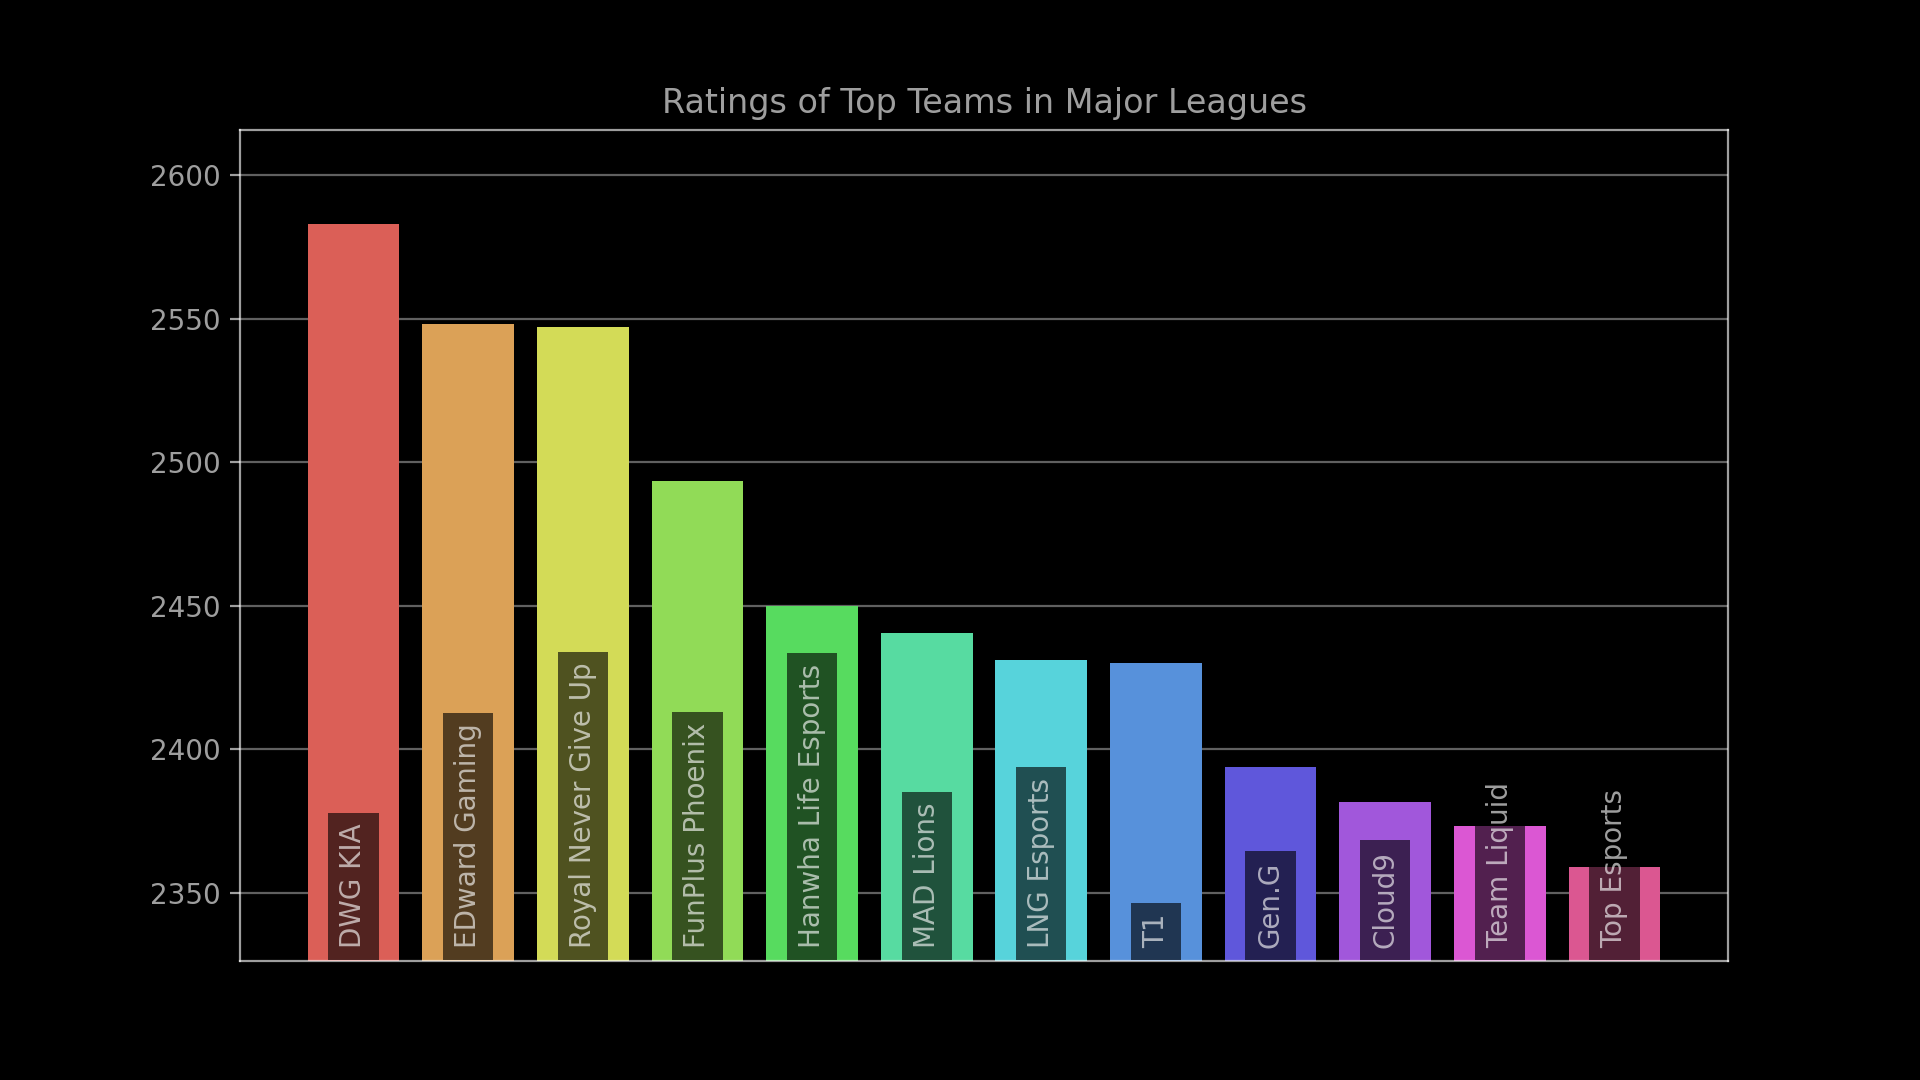
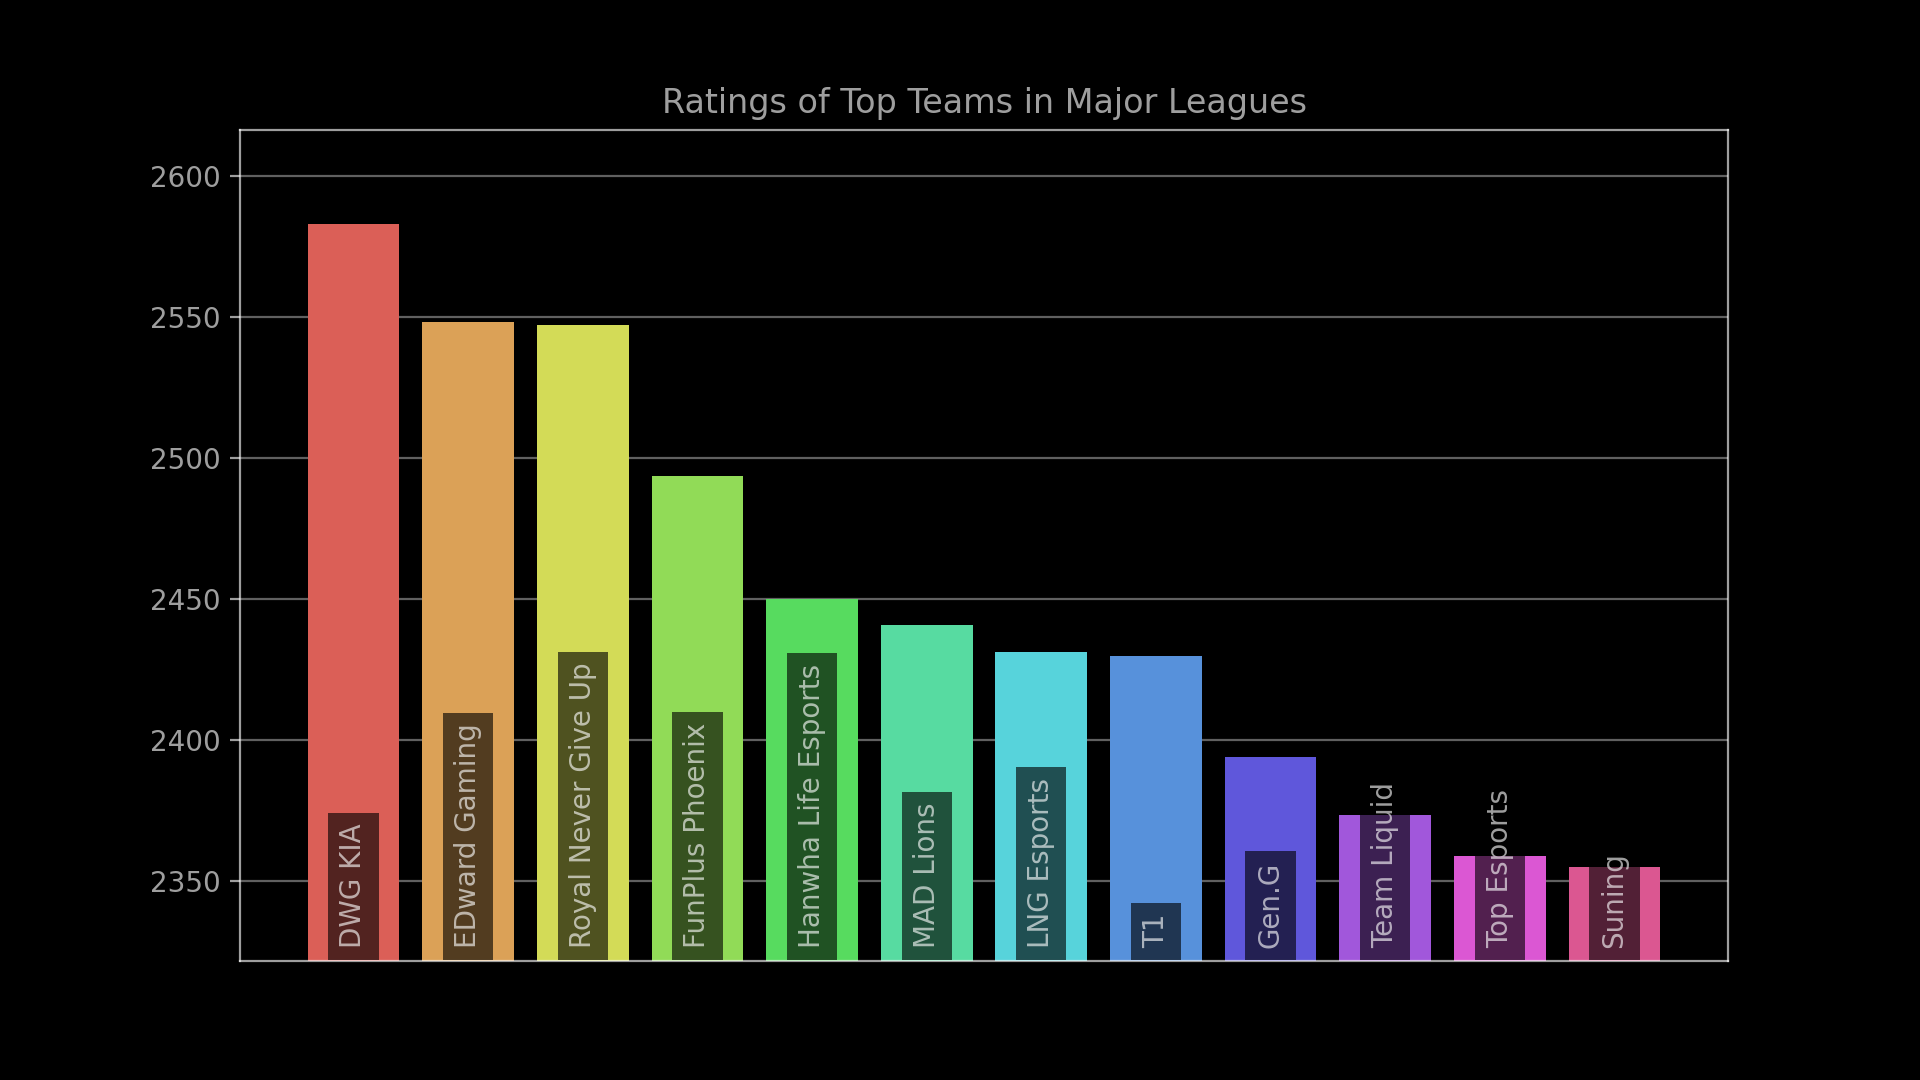
Update rating charts for 2021-10-11 20:00:00.

diff --git a/index.html b/index.html
@@ -86,22 +86,22 @@
             <tr><td style="text-align: right">8</td><td class="name">LNG Esports</td><td class="league" style="text-align: center">LPL</td><td class="rating" style="text-align: center">2431.1</td><td class="diff" style="text-align: center; white-space: nowrap"><span style="color: #4CAF50">&plus;3.3</span></td></tr>
             <tr><td style="text-align: right">9</td><td class="name">T1</td><td class="league" style="text-align: center">LCK</td><td class="rating" style="text-align: center">2429.9</td><td class="diff" style="text-align: center; white-space: nowrap"><span style="color: #4CAF50">&plus;16.4</span></td></tr>
             <tr><td style="text-align: right">10</td><td class="name">Gen.G</td><td class="league" style="text-align: center">LCK</td><td class="rating" style="text-align: center">2393.9</td><td class="diff" style="text-align: center; white-space: nowrap"><span style="color: #4CAF50">&plus;29.5</span></td></tr>
-            <tr><td style="text-align: right">11</td><td class="name">Cloud9</td><td class="league" style="text-align: center">LCS</td><td class="rating" style="text-align: center">2381.4</td><td class="diff" style="text-align: center; white-space: nowrap"><span style="color: #4CAF50">&plus;46.3</span></td></tr>
-            <tr><td style="text-align: right">12</td><td class="name">Team Liquid</td><td class="league" style="text-align: center">LCS</td><td class="rating" style="text-align: center">2373.2</td><td class="diff" style="text-align: center; white-space: nowrap"><span style="color: #4CAF50">&plus;32.2</span></td></tr>
-            <tr><td style="text-align: right">13</td><td class="name">Top Esports</td><td class="league" style="text-align: center">LPL</td><td class="rating" style="text-align: center">2358.8</td><td class="diff" style="text-align: center; white-space: nowrap"></td></tr>
-            <tr><td style="text-align: right">14</td><td class="name">Suning</td><td class="league" style="text-align: center">LPL</td><td class="rating" style="text-align: center">2354.8</td><td class="diff" style="text-align: center; white-space: nowrap"></td></tr>
-            <tr><td style="text-align: right">15</td><td class="name">100 Thieves</td><td class="league" style="text-align: center">LCS</td><td class="rating" style="text-align: center">2341.5</td><td class="diff" style="text-align: center; white-space: nowrap"><span style="color: #F44336">&minus;11.8</span></td></tr>
-            <tr><td style="text-align: right">16</td><td class="name">Team WE</td><td class="league" style="text-align: center">LPL</td><td class="rating" style="text-align: center">2340.1</td><td class="diff" style="text-align: center; white-space: nowrap"></td></tr>
-            <tr><td style="text-align: right">17</td><td class="name">Bilibili Gaming</td><td class="league" style="text-align: center">LPL</td><td class="rating" style="text-align: center">2318.9</td><td class="diff" style="text-align: center; white-space: nowrap"></td></tr>
-            <tr><td style="text-align: right">18</td><td class="name">DetonatioN FocusMe</td><td class="league" style="text-align: center">LJL</td><td class="rating" style="text-align: center">2316.5</td><td class="diff" style="text-align: center; white-space: nowrap"><span style="color: #4CAF50">&plus;102.3</span></td></tr>
-            <tr><td style="text-align: right">19</td><td class="name">G2 Esports</td><td class="league" style="text-align: center">LEC</td><td class="rating" style="text-align: center">2313.3</td><td class="diff" style="text-align: center; white-space: nowrap"></td></tr>
-            <tr><td style="text-align: right">20</td><td class="name">Fnatic</td><td class="league" style="text-align: center">LEC</td><td class="rating" style="text-align: center">2313.2</td><td class="diff" style="text-align: center; white-space: nowrap"><span style="color: #F44336">&minus;15.2</span></td></tr>
-            <tr><td style="text-align: right">21</td><td class="name">Rare Atom</td><td class="league" style="text-align: center">LPL</td><td class="rating" style="text-align: center">2313.0</td><td class="diff" style="text-align: center; white-space: nowrap"></td></tr>
-            <tr><td style="text-align: right">22</td><td class="name">Afreeca Freecs</td><td class="league" style="text-align: center">LCK</td><td class="rating" style="text-align: center">2305.4</td><td class="diff" style="text-align: center; white-space: nowrap"></td></tr>
-            <tr><td style="text-align: right">23</td><td class="name">CrowCrowd</td><td class="league" style="text-align: center">LCL</td><td class="rating" style="text-align: center">2303.4</td><td class="diff" style="text-align: center; white-space: nowrap"></td></tr>
-            <tr><td style="text-align: right">24</td><td class="name">Beyond Gaming</td><td class="league" style="text-align: center">PCS</td><td class="rating" style="text-align: center">2293.0</td><td class="diff" style="text-align: center; white-space: nowrap"><span style="color: #F44336">&minus;86.4</span></td></tr>
-            <tr><td style="text-align: right">25</td><td class="name">TSM</td><td class="league" style="text-align: center">LCS</td><td class="rating" style="text-align: center">2289.8</td><td class="diff" style="text-align: center; white-space: nowrap"></td></tr>
-            <tr><td style="text-align: right">26</td><td class="name">Rogue </td><td class="league" style="text-align: center">LEC</td><td class="rating" style="text-align: center">2287.6</td><td class="diff" style="text-align: center; white-space: nowrap"></td></tr>
+            <tr><td style="text-align: right">11</td><td class="name">Team Liquid</td><td class="league" style="text-align: center">LCS</td><td class="rating" style="text-align: center">2373.2</td><td class="diff" style="text-align: center; white-space: nowrap"><span style="color: #4CAF50">&plus;32.2</span></td></tr>
+            <tr><td style="text-align: right">12</td><td class="name">Top Esports</td><td class="league" style="text-align: center">LPL</td><td class="rating" style="text-align: center">2358.8</td><td class="diff" style="text-align: center; white-space: nowrap"></td></tr>
+            <tr><td style="text-align: right">13</td><td class="name">Suning</td><td class="league" style="text-align: center">LPL</td><td class="rating" style="text-align: center">2354.8</td><td class="diff" style="text-align: center; white-space: nowrap"></td></tr>
+            <tr><td style="text-align: right">14</td><td class="name">Rogue </td><td class="league" style="text-align: center">LEC</td><td class="rating" style="text-align: center">2354.3</td><td class="diff" style="text-align: center; white-space: nowrap"><span style="color: #4CAF50">&plus;30.1</span></td></tr>
+            <tr><td style="text-align: right">15</td><td class="name">Cloud9</td><td class="league" style="text-align: center">LCS</td><td class="rating" style="text-align: center">2353.8</td><td class="diff" style="text-align: center; white-space: nowrap"><span style="color: #4CAF50">&plus;18.7</span></td></tr>
+            <tr><td style="text-align: right">16</td><td class="name">100 Thieves</td><td class="league" style="text-align: center">LCS</td><td class="rating" style="text-align: center">2341.5</td><td class="diff" style="text-align: center; white-space: nowrap"><span style="color: #F44336">&minus;11.8</span></td></tr>
+            <tr><td style="text-align: right">17</td><td class="name">Team WE</td><td class="league" style="text-align: center">LPL</td><td class="rating" style="text-align: center">2340.1</td><td class="diff" style="text-align: center; white-space: nowrap"></td></tr>
+            <tr><td style="text-align: right">18</td><td class="name">Bilibili Gaming</td><td class="league" style="text-align: center">LPL</td><td class="rating" style="text-align: center">2318.9</td><td class="diff" style="text-align: center; white-space: nowrap"></td></tr>
+            <tr><td style="text-align: right">19</td><td class="name">DetonatioN FocusMe</td><td class="league" style="text-align: center">LJL</td><td class="rating" style="text-align: center">2316.5</td><td class="diff" style="text-align: center; white-space: nowrap"><span style="color: #4CAF50">&plus;102.3</span></td></tr>
+            <tr><td style="text-align: right">20</td><td class="name">G2 Esports</td><td class="league" style="text-align: center">LEC</td><td class="rating" style="text-align: center">2313.3</td><td class="diff" style="text-align: center; white-space: nowrap"></td></tr>
+            <tr><td style="text-align: right">21</td><td class="name">Fnatic</td><td class="league" style="text-align: center">LEC</td><td class="rating" style="text-align: center">2313.2</td><td class="diff" style="text-align: center; white-space: nowrap"><span style="color: #F44336">&minus;15.2</span></td></tr>
+            <tr><td style="text-align: right">22</td><td class="name">Rare Atom</td><td class="league" style="text-align: center">LPL</td><td class="rating" style="text-align: center">2313.0</td><td class="diff" style="text-align: center; white-space: nowrap"></td></tr>
+            <tr><td style="text-align: right">23</td><td class="name">Afreeca Freecs</td><td class="league" style="text-align: center">LCK</td><td class="rating" style="text-align: center">2305.4</td><td class="diff" style="text-align: center; white-space: nowrap"></td></tr>
+            <tr><td style="text-align: right">24</td><td class="name">CrowCrowd</td><td class="league" style="text-align: center">LCL</td><td class="rating" style="text-align: center">2303.4</td><td class="diff" style="text-align: center; white-space: nowrap"></td></tr>
+            <tr><td style="text-align: right">25</td><td class="name">Beyond Gaming</td><td class="league" style="text-align: center">PCS</td><td class="rating" style="text-align: center">2293.0</td><td class="diff" style="text-align: center; white-space: nowrap"><span style="color: #F44336">&minus;86.4</span></td></tr>
+            <tr><td style="text-align: right">26</td><td class="name">TSM</td><td class="league" style="text-align: center">LCS</td><td class="rating" style="text-align: center">2289.8</td><td class="diff" style="text-align: center; white-space: nowrap"></td></tr>
             <tr><td style="text-align: right">27</td><td class="name">Misfits Gaming</td><td class="league" style="text-align: center">LEC</td><td class="rating" style="text-align: center">2282.8</td><td class="diff" style="text-align: center; white-space: nowrap"></td></tr>
             <tr><td style="text-align: right">28</td><td class="name">Nongshim RedForce</td><td class="league" style="text-align: center">LCK</td><td class="rating" style="text-align: center">2280.4</td><td class="diff" style="text-align: center; white-space: nowrap"></td></tr>
             <tr><td style="text-align: right">29</td><td class="name">Evil Geniuses.NA</td><td class="league" style="text-align: center">LCS</td><td class="rating" style="text-align: center">2263.0</td><td class="diff" style="text-align: center; white-space: nowrap"></td></tr>

diff --git a/assets/js/chart-config.js b/assets/js/chart-config.js
@@ -3,10 +3,10 @@ const MONTH_ABBREVIATIONS = ["Jan", "Feb", "Mar", "Apr", "May", "Jun", "Jul", "A
 const topChartConfig = {
     type: "bar",
     data: {
-        labels: ['DWG KIA', 'EDward Gaming', 'Royal Never Give Up', 'FunPlus Phoenix', 'Hanwha Life Esports', 'MAD Lions', 'LNG Esports', 'T1', 'Gen.G', 'Cloud9', 'Team Liquid', 'Top Esports'],
+        labels: ['DWG KIA', 'EDward Gaming', 'Royal Never Give Up', 'FunPlus Phoenix', 'Hanwha Life Esports', 'MAD Lions', 'LNG Esports', 'T1', 'Gen.G', 'Team Liquid', 'Top Esports', 'Suning'],
         datasets: [{
             backgroundColor: ['#dc5f57', '#dca157', '#d4dc57', '#91dc57', '#57dc5f', '#57dca1', '#57d4dc', '#5791dc', '#5f57dc', '#a157dc', '#dc57d4', '#dc5791'],
-            data: [2583.1851513728243, 2548.152365255968, 2547.126672714404, 2493.554659376822, 2450.0042372562298, 2440.607036834309, 2431.0768523745746, 2429.885685600105, 2393.9156585533783, 2381.429077528042, 2373.235365010657, 2358.8275642289427],
+            data: [2583.1851513728243, 2548.152365255968, 2547.126672714404, 2493.554659376822, 2450.0042372562298, 2440.607036834309, 2431.0768523745746, 2429.885685600105, 2393.9156585533783, 2373.235365010657, 2358.8275642289427, 2354.8123246379455],
             label: "Rating Points"
         }]
     },
@@ -34,8 +34,8 @@ const topChartConfig = {
                 }
             },
             y: {
-                max: 2616,
-                min: 2326
+                max: 2617,
+                min: 2321
             }
         }
     }

diff --git a/README.md b/README.md
@@ -54,19 +54,19 @@ confidence interval of the rating.
 | 7 | LNG Esports | 2431.1 | 76.4 |
 | 8 | T1 | 2429.9 | 87.5 |
 | 9 | Gen.G | 2393.9 | 94.3 |
-| 10 | Cloud9 | 2381.4 | 67.9 |
-| 11 | Team Liquid | 2373.2 | 93.3 |
-| 12 | Top Esports | 2358.8 | 71.2 |
-| 13 | Suning | 2354.8 | 69.8 |
-| 14 | 100 Thieves | 2341.5 | 91.7 |
-| 15 | Team WE | 2340.1 | 61.8 |
-| 16 | Bilibili Gaming | 2318.9 | 73.6 |
-| 17 | G2 Esports | 2313.3 | 79.1 |
-| 18 | Fnatic | 2313.2 | 89.7 |
-| 19 | Rare Atom | 2313.0 | 77.3 |
-| 20 | Afreeca Freecs | 2305.4 | 67.7 |
-| 21 | TSM | 2289.8 | 69.9 |
-| 22 | Rogue (European Team) | 2287.6 | 80.1 |
+| 10 | Team Liquid | 2373.2 | 93.3 |
+| 11 | Top Esports | 2358.8 | 71.2 |
+| 12 | Suning | 2354.8 | 69.8 |
+| 13 | Rogue (European Team) | 2354.3 | 97.8 |
+| 14 | Cloud9 | 2353.8 | 67.2 |
+| 15 | 100 Thieves | 2341.5 | 91.7 |
+| 16 | Team WE | 2340.1 | 61.8 |
+| 17 | Bilibili Gaming | 2318.9 | 73.6 |
+| 18 | G2 Esports | 2313.3 | 79.1 |
+| 19 | Fnatic | 2313.2 | 89.7 |
+| 20 | Rare Atom | 2313.0 | 77.3 |
+| 21 | Afreeca Freecs | 2305.4 | 67.7 |
+| 22 | TSM | 2289.8 | 69.9 |
 | 23 | Misfits Gaming | 2282.8 | 77.4 |
 | 24 | Nongshim RedForce | 2280.4 | 71.4 |
 | 25 | Evil Geniuses.NA | 2263.0 | 72.2 |
